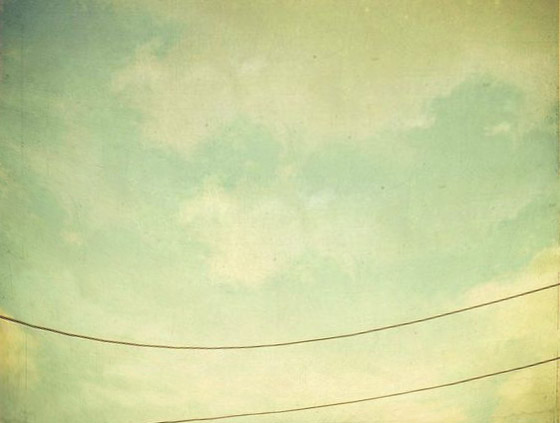
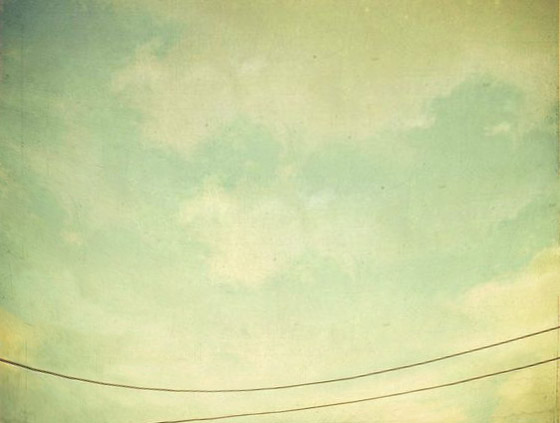
created raven image, added link images, background, hover styles etc. transform on bird is broken though

diff --git a/stylesheets/sass/main.scss b/stylesheets/sass/main.scss
@@ -1,5 +1,5 @@
 $scroll-thumb: rgba(112, 136, 110,0.4);
-$testing: false;
+$testing: true;
 $powerline-height: 300px;
 @mixin testing ($colour:red) {
     @if ($testing) {
@@ -16,33 +16,64 @@ $powerline-height: 300px;
 #line{
     position:absolute;
     width: 100%;
-    bottom: 0px;
+    //100vw * (360/560)
+    top: calc(100% - 17.2vw);
     // margin: 20px 0;
     height: auto;
     #bird {
+        @include testing(purple);
         position: absolute;
-        top: 0px;
+        top: 45%;
         left: 0px;
-        width:  20px;
-        height: 20px;
-        background-image: url("../images/shuffle.png");
+        width:  8vw;
+        height: 8vw;
+        background-image: url("../images/raven.png");
         background-size: auto 100%;
         background-position: 100% 0%;
-        animation: cycleFrames 1s infinite steps(3,start), move 1s infinite ease-in-out forwards;
+        animation: cycleFrames 0.5s infinite steps(3,start), move 0.5s infinite ease-in-out forwards;
         animation-play-state: paused;
+        z-index:10;
+        transform: rotate(-10deg);
     }
     path {
-        stroke: steelblue;
-        stroke-width: 1;
+        //stroke: steelblue;
+        //stroke-width: 1;
         fill: none;
     }
 }
 body {
     overflow-x: hidden;
     h1 { font-size: 3em; font-family: 'Cinzel Decorative', cursive; max-width: 70vw;}
-    h2 { font-size: 2em; text-align: center; font-family: 'Cabin Sketch', cursive;}
-    background: #BBCD91;
+    h2 { font-size: 3em; text-align: center; font-family: 'Cabin Sketch', cursive;}
+    //background-color: #BBCD91;
+    background-image: url('../images/paper-texture-new.jpg');
     p { font-family: 'Nixie One', cursive; line-height: 1.5em; font-size: 1.1em;}
+    z-index: -10;
+    a {font-family: 'Amatic SC', cursive; color: black; font-size: 2em;}
+}
+span {
+    a:hover {
+        color: #23ACE2;
+        transition: 0.3;
+    }
+    &:hover::before {
+        opacity: 1;
+    }
+    &::before {
+        content: "";
+        position: absolute;
+        top: 0; 
+        left: 0;
+        width: 100%; 
+        height: 100%;  
+        opacity: 0; 
+        z-index: -1;
+        background: url("../images/clouds.png");
+        background-size: contain;
+        background-position: center top;
+        background-repeat: no-repeat;
+        transition: 0.3s;
+    }
 }
 //contains code demo
 .wrapper {
@@ -54,8 +85,10 @@ body {
     justify-content: center;
     flex-direction: column;
     align-items: center;
-    background-image: url("../images/background.jpg");
+    background-image: url("../images/background-grain.jpg");
     background-size: 100% auto;
+    background-position: center bottom;
+    background-repeat: no-repeat;
     header {
         h1 { text-align: center}
     }
@@ -64,32 +97,71 @@ body {
     position: absolute;
     bottom: 2em;
     min-width: 500px;
+    width: 40%;
     height: 100%;
     margin-left: 2%;
     ul {
         display: flex; 
         width:100%;
         height: 100%;
+        justify-content: space-between;
         @include testing(orange);
+        //background-image: url("../images/links-background.svg");
         li {
-            width: 25%;
+            width: 20%;
+            max-width: 140px;
             position: relative;
             @include testing(black);
+            
+            z-index: 1;
             a {
                 display: block;
                 width: 100%;
                 height: 100%;
                 @include testing(pink);
-                font-size: 1.5em;
+                font-size: 3em;
+                text-indent: -999px;
+                overflow: hidden;
+                background-repeat: no-repeat;
+                background-size: 90%;
+                -webkit-filter: brightness(0);
+                filter: brightness(0);
             }
-            a:hover {
-                color: red;
+            &:hover a {
+                -webkit-filter: brightness(1.5);
+                filter: brightness(1.5);
+                transition: 0.3s;
+            }
+            &:hover::before {
+                opacity: 1;
+            }
+            &::before {
+                content: "";
+                position: absolute;
+                top: 0; 
+                left: 0;
+                width: 100%; 
+                height: 100%;  
+                opacity: 0; 
+                z-index: -1;
+                background: url("../images/clouds.png");
+                background-size: 100%;
+                background-repeat: no-repeat;
+                transition: 0.3s;
             }
         }
+        li:nth-child(1), li:nth-child(4) {width: 30%;}
+        li:nth-child(1) a, li:nth-child(4) a { max-width: 200px; background-size:100%;}
+        li:nth-child(2) a, li:nth-child(3) a {background-size: 50%; max-width: 140px;}
+        li:nth-child(1) a {background-image: url("../images/link-overview.svg");}
+        li:nth-child(2) a {background-image: url("../images/link-html.svg");}
+        li:nth-child(3) a {background-image: url("../images/link-scss.svg");}
+        li:nth-child(4) a {background-image: url("../images/link-js.svg");}
     }
 }
 //contains all code examples
 main {
+    margin-top: 30px;
     position: relative;
     width: 100%;
     @include testing(red);
@@ -99,7 +171,9 @@ main {
     perspective-origin: 50% 0%;
     min-height: 80vh;
     section {
-        //@include testing(green);
+        @include testing(green);
+        min-width: 500px;
+        min-height: 500px;
         position: absolute;
         top: 0px;
         left: 50%;

diff --git a/scripts/bird-fsm.js b/scripts/bird-fsm.js
@@ -239,21 +239,31 @@ $(document).ready(function(){
     function startShuffling($thing, direction){
         $thing.off("webkitAnimationIteration");
         //get next position on curve
-        var position = shuffle($thing.offset().left, 2*$thing.width(), path, direction);
+        var position = shuffle($thing.offset().left+ 0.5*$thing.width(), 0.5*$thing.width(), path, direction);
         //set the css variables
-        document.documentElement.style.setProperty('--position-x', position.x)
-        document.documentElement.style.setProperty('--position-y', position.y)
+        console.log(position.x - ($thing.offset().left+ 0.5*$thing.width()));
+        console.log(($thing.offset().top+0.9*$thing.width()-$('#line').offset().top) - position.y);
+        var angle, opposite, adjacent;
+        opposite = position.y - ($thing.offset().top+0.9*$thing.width()-$('#line').offset().top);
+        adjacent = position.x - ($thing.offset().left+ 0.5*$thing.width());
+        angle = Math.floor(Math.atan(opposite/adjacent)/Math.PI*180);
+        console.log(angle);
+        $thing.css('transform','rotate(' + angle + 'deg)');
+        console.log("position.y: "+ position.y);
+        console.log("offset: "+ ($thing.offset().top+0.9*$thing.width()-$('#line').offset().top));
+        document.documentElement.style.setProperty('--position-x', position.x-0.5*$thing.width())
+        document.documentElement.style.setProperty('--position-y', position.y - 0.9*$thing.width())
         //start the animation
         $thing.css('animation-play-state','running');
         $thing.on("webkitAnimationIteration", function(e) {
             var animName = e.originalEvent.animationName;
             if (animName === "move") {
-               $thing.css({'left': position.x, 'top':position.y}); 
+               $thing.css({'top': position.y -0.9*$thing.width(), 'left':position.x-0.5*$thing.width()}); 
             }
-            position = shuffle($thing.offset().left, 2*$thing.width(), path, direction);
+            position = shuffle($thing.offset().left+0.5*$thing.width(), 0.5*$thing.width(), path, direction);
             //set the css variables
-            document.documentElement.style.setProperty('--position-x', position.x)
-            document.documentElement.style.setProperty('--position-y', position.y)
+            document.documentElement.style.setProperty('--position-x', position.x-0.5*$thing.width());
+            document.documentElement.style.setProperty('--position-y', position.y - 0.9*$thing.width());
         });
     }
 
@@ -261,7 +271,7 @@ $(document).ready(function(){
         $thing.on("webkitAnimationIteration", function(e) {
             var animName = e.originalEvent.animationName;
             if (animName === "move") {
-               $thing.css({'left': position.x, 'top':position.y}); 
+               $thing.css({'top': position.y - 0.9*$thing.width(), 'left':position.x-0.5*$thing.width()});  
             }
             //calls at start of iteration (except first one, kind of like fence post issue)
             $thing.css('animation-play-state','paused');
@@ -274,7 +284,7 @@ $(document).ready(function(){
 	//get links containers
 	var $mainNavLi = $('.main-nav li');
 	$mainNavLi.each(function(){
-		$(this).css('top',newton($(this).offset().left, path));
+		$(this).css('top',newton($(this).offset().left, path) - $(window).width()/100);
 	});
     // $circle.on("webkitAnimationIteration", function() {
     //     //calls at start of iteration (except first one, kind of like fence post issue)

diff --git a/index.html b/index.html
@@ -20,6 +20,7 @@
     <script src="scripts/main.js"></script>
     <link rel="stylesheet" href="external-sources/prism.css">
     <link href="https://fonts.googleapis.com/css?family=Nixie+One" rel="stylesheet">
+    <link href="https://fonts.googleapis.com/css?family=Amatic+SC" rel="stylesheet">
 </head>
 <body>
     <!-- wrapper for header and demo animation  -->
@@ -29,7 +30,7 @@
         </header>
         <!-- links will hopefully be sitting on a wire -->
         <!-- add in svgs for text later so they can be warped to fit curve -->
-        <a href="#main">view code</a>
+        <span><a href="#main">view code</a></span>
         
         <div id="line">
           <nav class="main-nav">
@@ -41,8 +42,11 @@
               </ul>
           </nav>
           <!-- curve for the powerline (temporary filler one) -->
-          <svg  viewBox="0 0 607.09 137.4">
-            <path id="powerline" d="M0.34,0.36C114.9,108.59,451.61,244,606.67.36"/>
+          <!-- <svg  viewBox="0 0 607.09 137.4">
+            <path  d="M0.34,0.36C114.9,108.59,451.61,244,606.67.36"/>
+          </svg> -->
+          <svg viewBox="0 0 560 64.06">
+            <path id="powerline" d="M0,31.67C181.33,100.33,418,45.33,560,0"/>
           </svg>
           <!-- bird (temp circle #physics) -->
           <div id="bird">
@@ -57,13 +61,13 @@
         <!-- expanation -->
         <section id="overview" class="overview active">
             <h2>Overview</h2>
-            <a href="#top">top</a>
+            <span><a href="#top">top</a></span>
             <p>for more specific information on Machina.js visit ...</p>
             <blockquote><a>Machina.js</a> is a JavaScript framework for highly customizable finite state machines.</blockquote>
             <p>In this demo, we'll be using Machina.js to create a finite state machine for the movements of a bird</p>
             <p>start planning out the state machine by drawing a diagram of how it should behave to different inputs in each state</p>
             <figure>
-                <img src="images/state-diagram.jpg" alt="diagram of a state machine">
+                <img alt="diagram of a state machine">
                 <figcaption>diagram for the state machine</figcaption>
             </figure>
             <p>for simplicity, we'll only be implementing some of the states, specifically: standing, shuffling left, and shuffling right</p>
@@ -71,7 +75,7 @@
         <!-- html -->
         <section id="html" class="html">
             <h2>HTML</h2>
-            <a href="#top">top</a>
+            <span><a href="#top">top</a></span>
             <pre class="language-html">
             <code>
 &lt;body>
@@ -104,7 +108,7 @@
         <!-- css/scss -->
         <section id="scss" class="scss">
             <h2>SCSS</h2>
-            <a href="#top">top</a>
+            <span><a href="#top">top</a></span>
              <pre>
 <code class="language-css">
 $width: 200px;
@@ -212,7 +216,7 @@ body {
         <!-- js/jquery -->
         <section id="js" class="js">
             <h2>Javascript</h2>
-            <a href="#top">top</a>
+            <span><a href="#top">top</a></span>
         </section>
     </main>
 </body>

diff --git a/scripts/main.js b/scripts/main.js
@@ -64,11 +64,11 @@ $(document).ready(function(){
         navigate(origin, destination);
     });
     //link to navigate to start of sections
-    $('.wrapper > a').on('click', function (e){
+    $('.wrapper > span > a').on('click', function (e){
         e.preventDefault();
         $('body').animate({scrollTop: $('.main-nav').offset().top}, 500);
     });
-    $('section > a:first-of-type').on('click', function (e){
+    $('section > span > a:first-of-type').on('click', function (e){
         e.preventDefault();
         $('body').animate({scrollTop: 0}, 500);
     });
